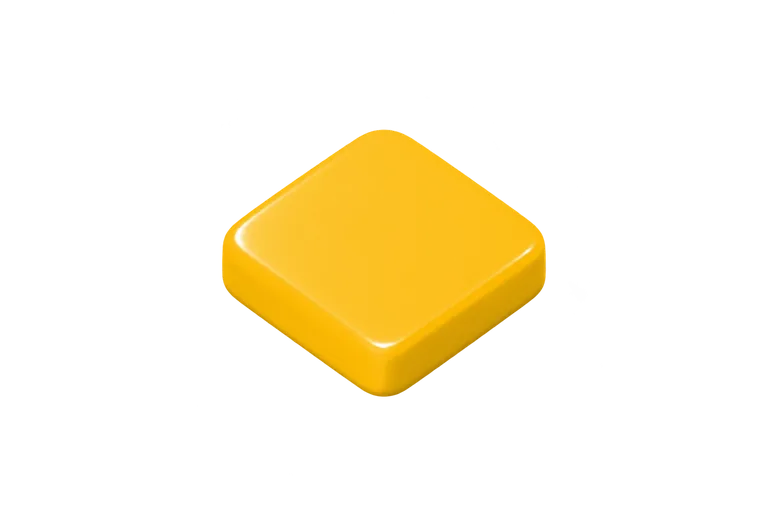
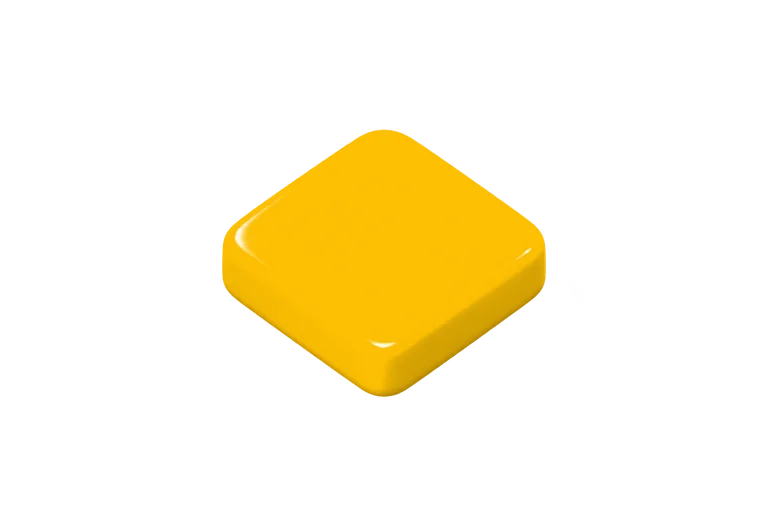
Boost yellow tile saturation and fade overlapping hero

Changed region(s): [[0.2812, 0.25, 0.7188, 0.6875]]

diff --git a/wechat-lite/index.html b/wechat-lite/index.html
@@ -68,6 +68,7 @@
     @keyframes mysteryCollect { to { opacity:0; transform:translate(-50%,-135%) scale(.3); } }
     #heroShadow { position: absolute; z-index: 10; width: 9%; height: 2.4%; border-radius: 50%; background: #17331452; filter: blur(2px); transform: translate(-50%,-50%); transition: left .18s linear, top .18s linear, transform .12s, opacity .12s; }
     #hero { --face:1; position: absolute; z-index: 12; width: 13%; height: auto; transform: translate(-50%,-88%) scaleX(var(--face)); transform-origin: 50% 100%; filter: drop-shadow(0 2px 2px #1b2d2040); transition:left .18s linear,top .18s linear; will-change: left,top,transform; }
+    #hero.board-overlap { -webkit-mask-image:linear-gradient(to bottom,rgba(0,0,0,.42) 0 58%,rgba(0,0,0,.72) 70%,#000 86%); mask-image:linear-gradient(to bottom,rgba(0,0,0,.42) 0 58%,rgba(0,0,0,.72) 70%,#000 86%); }
     #hero.jump { animation: hop .20s ease-out; }
     #hero.finish-jump { animation: finishHop .34s cubic-bezier(.2,.72,.25,1); }
     #hero.celebrate { animation:celebrateHop .58s ease-in-out infinite; }
@@ -228,6 +229,7 @@
       function fitRoad(el,idx) { const [sx,sy]=slotFits[idx]; el.style.setProperty('--sx',sx); el.style.setProperty('--sy',sy); return `translate(-50%,-50%) scale(${sx},${sy})`; }
       function setHero(p) {
         hero.style.left=p.x+'%'; hero.style.top=p.y+'%';
+        hero.classList.toggle('board-overlap',p.y<=43.75);
         heroShadow.style.left=p.x+'%'; heroShadow.style.top=(p.y+.7)+'%';
       }
       function makeTile(r,c,color) {
